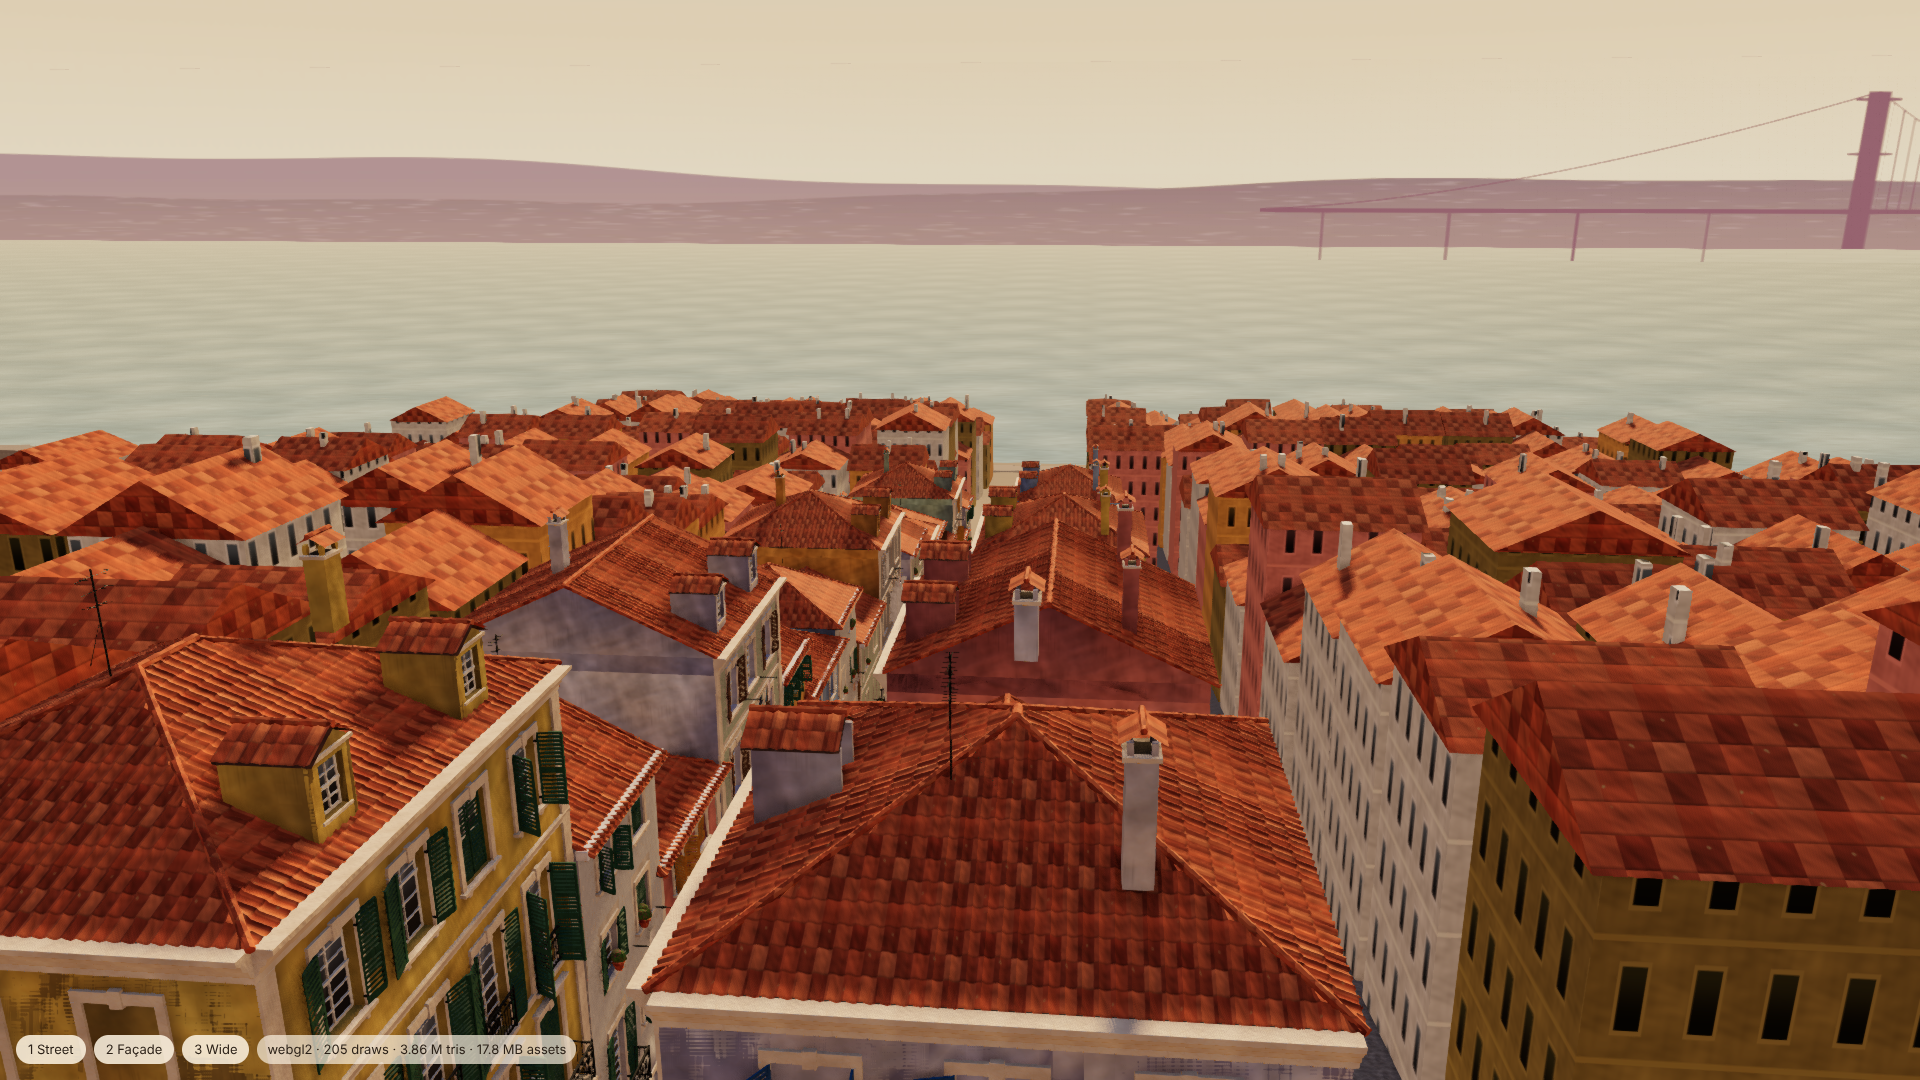
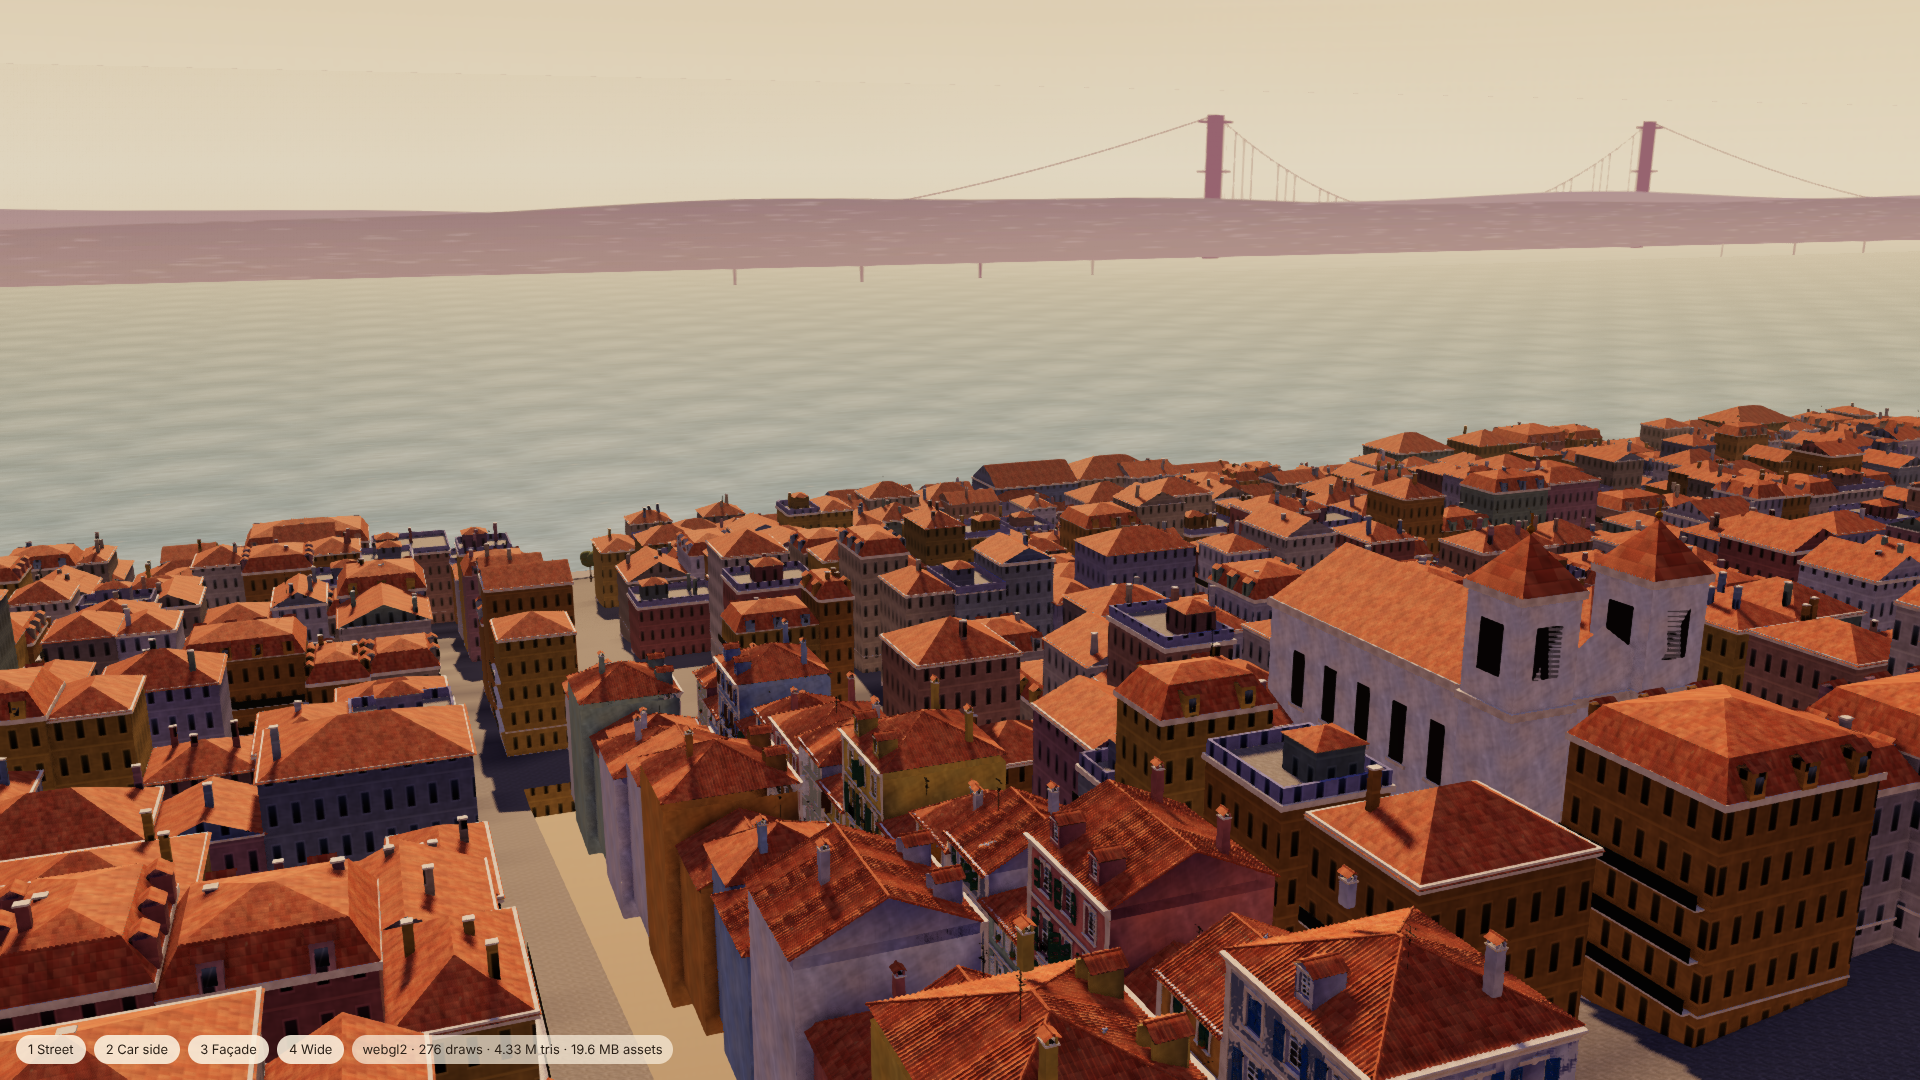
Proof pass 2: 1080p captures of four views, docs, progress and TODO with M4 results
Claude-Session: https://claude.ai/code/session_01XBjGhAseoQSdtwmwLYxxCL

diff --git a/docs/visual-proof.md b/docs/visual-proof.md
@@ -10,9 +10,13 @@ npm ci
 npm run dev            # then open http://localhost:5173/proof.html
 ```
 
-- `?view=chase|facade|establish`, or keys 1–3 and the buttons: the three review views. `?view=free` adds orbit controls.
+Without installing anything: `cd perf/dist && python3 -m http.server 8080` and open
+`http://localhost:8080/proof.html` (see `perf/README.md`; rebuild with `npm run build:perf`).
+
+- `?view=chase|carside|facade|establish`, or keys 1–4 and the buttons: the review views. `?view=free` adds orbit controls.
 - `?renderer=webgl` (default here), `webgpu` or `webgpu-gl2`; `?shadows=0`, `?ao=0`, `?bloom=0`, `?aa=0`; `?dof=1` turns depth of field on.
 - `?dpr=1.5` caps the pixel ratio; `?clean` hides the HUD.
+- `?report=1` measures every view (3 s warm-up + 10 s each), shows copyable JSON and logs each view as `GET ./__perf?…`.
 - The HUD shows the backend, frame rate (real hardware only), draw calls, rendered triangles (all passes) and asset megabytes.
 
 ## Pipeline
@@ -64,3 +68,52 @@ reassess it at Stage 4 from these numbers.
 - Shade is warm-dark rather than the blue-violet of the style frame.
 - The bridge is cut by the right edge of the wide view.
 - No people, cats, gulls or street props beyond pots, laundry and signs yet.
+
+## Pass 2 (2026-10-21), after kAI's review of pass 1
+
+kAI kept the façade detail and asked for: varied mid-ground roofs with real depth and less repetition, the
+reference's cooler blue-violet shade with warm sun, a composed wide view, a microcar that reads unmistakably as a
+small charming car (with a side-profile view), and a few people and animals. Nothing is approved and the district
+is not expanded.
+
+- **Microcar** (`microcar.py`): a lofted two-door body with a sloping bonnet, cut wheel arches with flares, raked
+  windscreen, side and rear windows, round headlamps, grille, bumpers and tail lamps. The pastry branding is an
+  accessory: a cake tin on a roof rack and a door badge. Wheelbase 1.70 m, wheel radius 0.27 m, 2.65 m long.
+- **Mid-ground** (`backdrop.py`): blocks of separate buildings with hip, gable, mansard-with-dormer and terrace
+  roofs, cornices, setbacks and chimneys; a two-tower church; a riverfront row with trees. One shared material
+  (`mid_wall`) tinted per building through COLOR_0.
+- **Repetition:** roof texture repeat about 4×7 m with patches; calmer plaster at half normal strength; world-space
+  stains, roof colour drift and rising damp baked into COLOR_0.
+- **Shade:** cooler AO tint and fill in Blender; in the engine a blue-violet hemisphere fill (`#6d70d0`) with a muted
+  ground bounce and a lower warm environment, sun unchanged.
+- **Wide view:** camera moved west and up, aimed at the bridge (Blender (-30, -40, 48) → (115, 320, -49), 40°).
+- **Life** (`life.py`): a grandmother with shopping, two walkers, a ginger and a dark cat, pigeons, gulls.
+- **New view:** `carside`, from the far pavement (the street is 6 m wide).
+
+| | Pass 1 | Pass 2 |
+|---|---|---|
+| Scene triangles | 0.96 M | 1.08 M |
+| Microcar triangles | 5,976 | 10,352 |
+| Download (scene + car) | 17.8 MB + 0.08 MB | **19.45 MB + 0.14 MB** |
+| Draw calls per frame (all passes) | 201–225 | 241–285 |
+
+### Frame rate on the M4 (Chrome 155, built-in 60 Hz display, AC power)
+
+Full numbers and conditions are in `perf/results/README.md`.
+
+| Pixel ratio | chase | carside | facade | establish |
+|---|---|---|---|---|
+| 1.5 (default cap, 2565×1668) | 59.7 fps | 52.1 | 54.4 | 55.3 |
+| 2 (full Retina, 3420×2224) | 26.6 fps | 20.6 | 25.2 | 29.7 |
+
+At 1.5 the non-chase views miss vsync about one frame in twenty (1% lows about 29 fps). Draws and triangles are
+identical at both ratios while the frame rate halves, so the cost is per pixel (AO, bloom, shadow filtering,
+antialiasing at high resolution), not geometry. Optimise resolution scaling and the full-screen passes first.
+Safari 26.6.2 is not measured yet (needs someone at the Mac); Firefox is not installed.
+
+### Known gaps (pass 2)
+
+- In the browser the bridge card is fainter than in the Blender target, and the river's ripple texture repeats
+  visibly in the wide view.
+- The haze turns the far shore into a flat lilac band; the Blender target keeps more depth.
+- One headlamp catches a strong specular flare in the car side view.

diff --git a/progress.md b/progress.md
@@ -1,6 +1,16 @@
 # Progress
 
-## Stage 2b — Visual proof, direction C (2026-10-21) — awaiting review
+## Stage 2b pass 2 — refinement after review (2026-10-21) — awaiting review
+- kAI's notes: varied mid-ground roofs with depth, less repetition, cooler blue-violet shade with warm sun, a
+  composed wide view, a microcar that reads as a small charming car (plus a side profile), a few people and animals.
+- Blender (on kAI's Mac): new lofted microcar with arches, glass and a roof-rack cake tin; mid-ground of separate
+  buildings with hip, gable, mansard and terrace roofs and a church; calmer textures with world-space variation;
+  cooler AO; people, cats, pigeons, gulls; wide camera recomposed toward the bridge.
+- Engine: `carside` view, blue-violet fill, `?report=1` measurement mode, static `perf/dist` bundle (no install).
+- Download 19.6 MB. M4 Chrome: 52–60 fps at the default 1.5 pixel ratio, 21–30 fps at full Retina; cost is per
+  pixel, not geometry. Safari not yet measured. Details: `docs/visual-proof.md`, `perf/results/README.md`.
+
+## Stage 2b — Visual proof, direction C (2026-10-21) — pass 1 reviewed
 - Blender: kAI's Mac has Blender 5.2.0 LTS (macOS 26.6.2, arm64), and headless mode works. It runs over Remote
   Control in a separate clone (`LAB/lisbon3d-proof`). Nothing was installed and `LAB/Lisbon3D` was not touched.
 - Kit as reproducible Blender Python (`art/blender/`):
